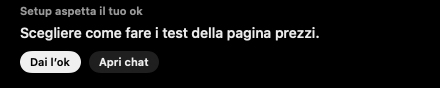
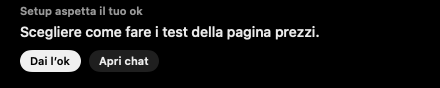
feat(#158 #1967): scheda ADHD col mouse, Rimuovi con annulla, errore di lettura; righe degli avvisi alte come nel frame

diff --git a/Sources/Clotch/NotchAlertViews.swift b/Sources/Clotch/NotchAlertViews.swift
@@ -101,8 +101,11 @@ private struct AlertLine: View {
 
     var body: some View {
         Text(text).font(.system(size: size, weight: weight)).foregroundStyle(color)
-            .fixedSize(horizontal: false, vertical: true)
+            .lineBox(Self.box[size] ?? size + 3).fixedSize(horizontal: false, vertical: true)
     }
+
+    /// The frames' text boxes per size (78-61703, 78-62207): 11 → 13, 12 → 14, 14 → 17.
+    private static let box: [CGFloat: CGFloat] = [T.notchTesto11: 13, T.notchTesto12: 14, T.notchTesto14: T.notchInterlinea17]
 }
 
 /// The white button first (the move), the grey ones after; nil action = a label that cannot be pressed (sending).

diff --git a/Sources/Clotch/NotchAdhdTab.swift b/Sources/Clotch/NotchAdhdTab.swift
@@ -95,7 +95,7 @@ private enum Line {
     static let header: CGFloat = 13, question: CGFloat = 17, detail: CGFloat = 14
 }
 
-private extension View {
+extension View {
     /// Every line of the text in a box of `height`, as in the frame (12 pt text sets 15 pt lines by default, the frame's box is 14).
     /// shortcut: before macOS 26 the lines keep the default height, a pixel or two taller per line.
     @ViewBuilder func lineBox(_ height: CGFloat) -> some View {
